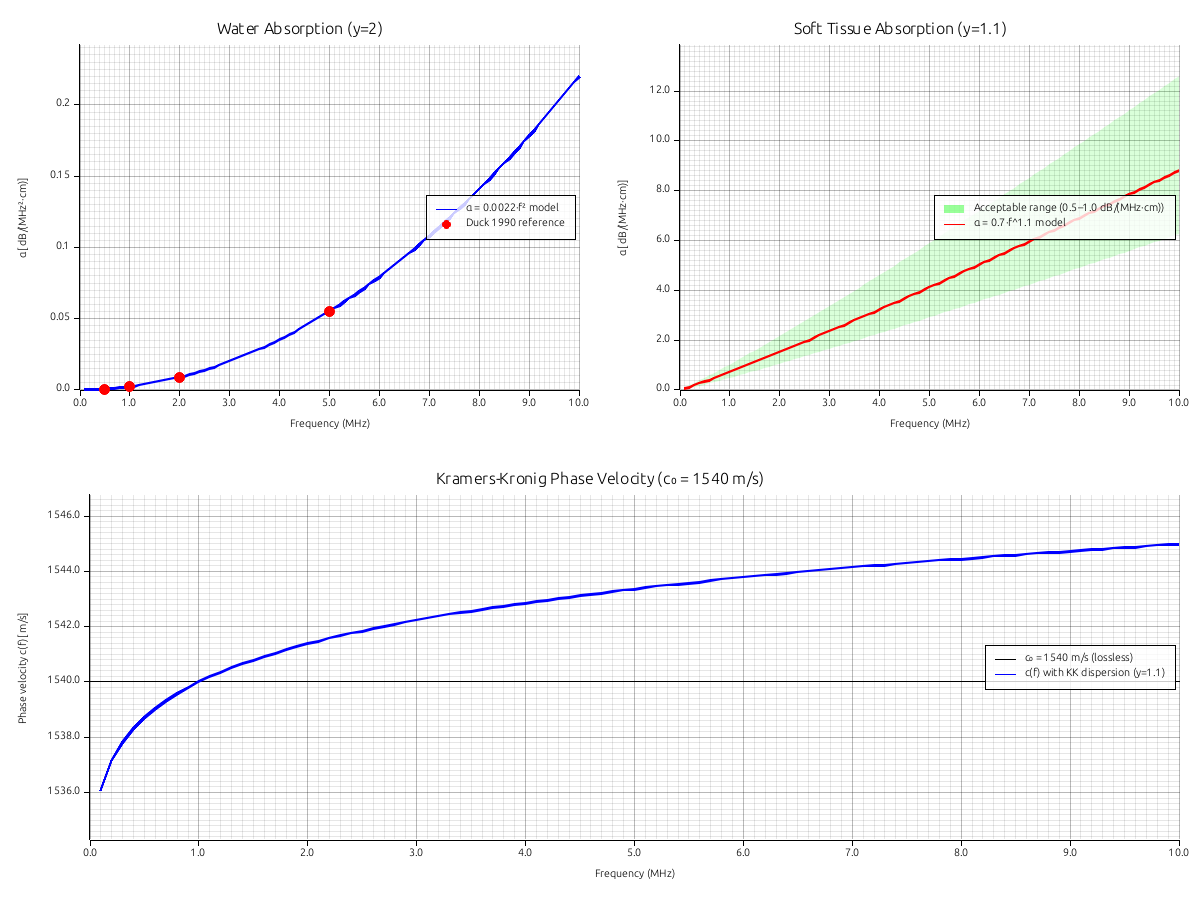
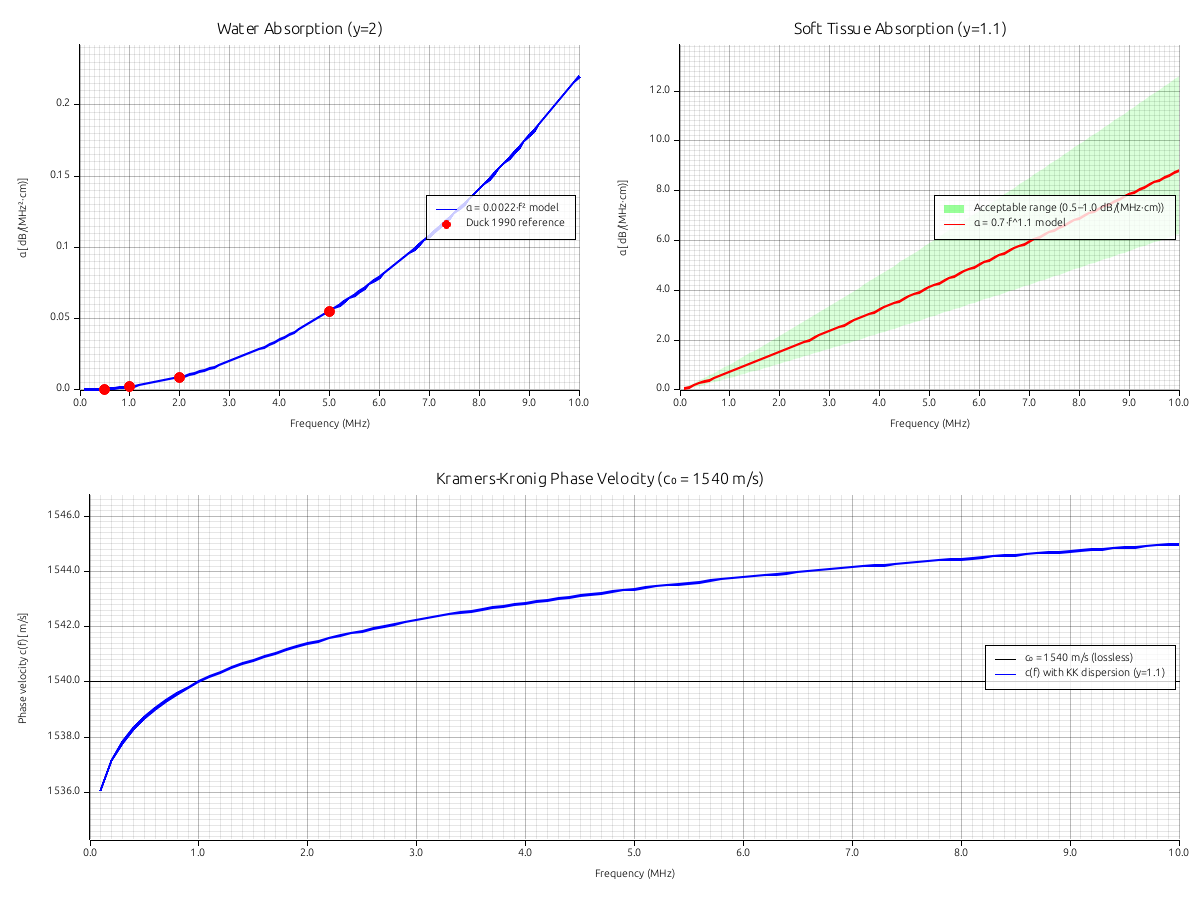
fix(kwavers): Route the leftover dB/Np literals
The skull-modulation example, the book's unit line, and two test
harnesses still spelled the factor as 11.516, 0.1151, or 0.115. They
now use kw.db2neper and DB_TO_NP/NP_TO_DB, so the Kramers-Kronig panel
and the classical-absorption check run on the exact conversion.

The Pinkerton parity test had widened rtol to 1.27e-5 to absorb the
gap between k-Wave's 8.686 literal and 20/ln(10). Dividing k-Wave's
dB/cm by its own literal recovers its Np value exactly, so the test
compares the two polynomials at the original rtol of 1e-6.

The exact factor moves the Kramers-Kronig curve of
absorption_power_law.png by under a pixel, so the golden is
regenerated through KWAVERS_REGENERATE_TEST_FIGURES; it is stored
recompressed at 67 KB, pixel-identical to the render.

Item: KW-DB-PER-NP-DUPLICATE
Agent: claude:21ed3a97-56c6-4380-94fd-c071d86e23eb

diff --git a/crates/kwavers/tests/absorption_validation_test.rs b/crates/kwavers/tests/absorption_validation_test.rs
@@ -6,7 +6,7 @@
 //! Reference: Treeby et al., "Modeling power law absorption and dispersion
 //! for acoustic propagation using the fractional Laplacian", JASA 2010
 
-use kwavers_core::constants::SOUND_SPEED_WATER;
+use kwavers_core::constants::{DB_TO_NP, NP_TO_DB, SOUND_SPEED_WATER};
 use plotters::prelude::*;
 
 #[path = "support/figures.rs"]
@@ -146,7 +146,7 @@ fn render_absorption_figure(path: &std::path::Path) -> Result<(), Box<dyn std::e
     // ── Panel 3: Kramers-Kronig phase velocity dispersion ────────────────────
     {
         let c0 = TISSUE_SOUND_SPEED;
-        let alpha_0_np_per_m = 0.7 * 0.115 / 0.01; // Np/m at 1 MHz
+        let alpha_0_np_per_m = 0.7 * DB_TO_NP * 100.0; // Np/m at 1 MHz
         let y = 1.1;
         let omega_ref = 2.0 * std::f64::consts::PI * 1e6; // reference ω₀ = 2π·1 MHz
         let tan_factor = (std::f64::consts::PI * y / 2.0).tan(); // negative for 1 < y < 2
@@ -218,7 +218,7 @@ fn render_absorption_figure(path: &std::path::Path) -> Result<(), Box<dyn std::e
 #[test]
 fn test_water_absorption() {
     // Water absorption: α = 0.0022 * f^2 [dB/(MHz^2·cm)]
-    // Convert to Np/m: 1 dB = 0.115 Np, 1 cm = 0.01 m
+    // Convert to Np/m: 1 dB = ln(10)/20 Np, 1 m = 100 cm
 
     let frequencies = [0.5e6, 1.0e6, 2.0e6, 5.0e6]; // Hz
     let expected_alpha_db_per_cm = [
@@ -231,7 +231,7 @@ fn test_water_absorption() {
     for (i, &f) in frequencies.iter().enumerate() {
         let f_mhz: f64 = f / 1e6;
         let alpha_db_per_cm = 0.0022 * f_mhz.powi(2);
-        let alpha_np_per_m = alpha_db_per_cm * 0.115 / 0.01;
+        let alpha_np_per_m = alpha_db_per_cm * DB_TO_NP * 100.0;
 
         // Verify against expected values
         let error = (alpha_db_per_cm - expected_alpha_db_per_cm[i]).abs();
@@ -245,7 +245,7 @@ fn test_water_absorption() {
 
         // Verify power law with y=2 for water
         let alpha_from_power_law = power_law_absorption(
-            0.0022 * 0.115 / 0.01, // α₀ at 1 MHz in Np/m
+            0.0022 * DB_TO_NP * 100.0, // α₀ at 1 MHz in Np/m
             f,
             1e6, // Reference frequency 1 MHz
             2.0, // Power law exponent for water
@@ -276,7 +276,7 @@ fn test_tissue_absorption() {
 
         // Calculate using power law
         let alpha_db = alpha_0_db * f_mhz.powf(power);
-        let alpha_np_per_m = alpha_db * 0.115 / 0.01;
+        let alpha_np_per_m = alpha_db * DB_TO_NP * 100.0;
 
         // Verify reasonable range for soft tissue
         assert!(
@@ -288,7 +288,7 @@ fn test_tissue_absorption() {
 
         // Verify power law behavior
         if f > 1e6 {
-            let alpha_1mhz = power_law_absorption(alpha_0_db * 0.115 / 0.01, 1e6, 1e6, power);
+            let alpha_1mhz = power_law_absorption(alpha_0_db * DB_TO_NP * 100.0, 1e6, 1e6, power);
             let ratio = alpha_np_per_m / alpha_1mhz;
             let expected_ratio = f_mhz.powf(power);
 
@@ -317,7 +317,7 @@ fn test_absorption_dispersion_relation() {
     // consistent with measured tissue behavior).
 
     let c0 = TISSUE_SOUND_SPEED;
-    let alpha_0_np_per_m = 0.7 * 0.115 / 0.01; // Np/m at 1 MHz reference
+    let alpha_0_np_per_m = 0.7 * DB_TO_NP * 100.0; // Np/m at 1 MHz reference
     let y = 1.1;
     let omega_ref = 2.0 * std::f64::consts::PI * 1e6; // ω₀ = 2π·1 MHz
     let tan_factor = (std::f64::consts::PI * y / 2.0).tan(); // negative for 1 < y < 2
@@ -385,10 +385,10 @@ fn test_thermoviscous_absorption() {
 
     // Convert to dB/(MHz²·cm) for comparison.
     // alpha_classical is in Np/m at f=1 MHz.
-    // 1 Np/m = (1/11.5) dB/cm  (since 1 dB = 0.115 Np, 1 cm = 0.01 m)
+    // 1 Np/m = NP_TO_DB / 100 dB/cm  (1 Np = 20/ln(10) dB, 1 m = 100 cm)
     // At 1 MHz the quadratic law α = α₀·f² gives α₀ = α/f² = α (per MHz² with f=1).
-    // So: α₀ [dB/(MHz²·cm)] = alpha_classical [Np/m] × 0.01/0.115
-    let alpha_db_per_mhz2_cm = alpha_classical * 0.01 / 0.115;
+    // So: α₀ [dB/(MHz²·cm)] = alpha_classical [Np/m] × NP_TO_DB / 100
+    let alpha_db_per_mhz2_cm = alpha_classical * NP_TO_DB / 100.0;
 
     // Should be on the order of 0.002 for water (Duck 1990: 0.0022 dB/(MHz²·cm))
     assert!(

diff --git a/crates/kwavers-python/tests/test_new_utils_parity.py b/crates/kwavers-python/tests/test_new_utils_parity.py
@@ -471,25 +471,22 @@ class TestKWavePythonParity:
         """
         from kwave.utils.mapgen import water_absorption as kw_wa
 
-        import math
-
-        NEPER2DB = 20.0 / math.log(10.0)  # exact Np → dB factor
-        # k-Wave scales Pinkerton by its own NEPER2DB literal; a 4-decimal
-        # literal (8.686) deviates from the exact factor by 1.27e-5 relative,
-        # so the comparison bound is that deviation plus the rounding of the
-        # eight-term polynomial and the two conversions (< 1e-9).
-        rtol = abs(8.686 - NEPER2DB) / NEPER2DB + 1.0e-9
+        # k-Wave converts its Np polynomial to dB with the literal
+        # NEPER2DB = 8.686 (kwave/utils/mapgen.py), not 20/ln(10). Dividing by
+        # the same literal recovers k-Wave's Np value, so the two
+        # implementations of the Pinkerton polynomial compare directly.
+        KWAVE_NEPER2DB = 8.686
         for freq_mhz in [0.5, 1.0, 2.0, 5.0]:
             for temp in [10.0, 20.0, 25.0, 37.0, 50.0]:
                 freq_hz = freq_mhz * 1e6
                 pk_npm = kw.water_absorption(freq_hz, temp)  # Np/m
                 kw_dbcm = float(kw_wa(freq_mhz, temp))       # dB/cm
 
-                # Convert k-wave dB/cm → Np/m: Np/m = (dB/cm) / NEPER2DB * 100
-                kw_npm = kw_dbcm / NEPER2DB * 100.0
+                # Convert k-wave dB/cm → Np/m: Np/m = (dB/cm) / KWAVE_NEPER2DB * 100
+                kw_npm = kw_dbcm / KWAVE_NEPER2DB * 100.0
 
                 if kw_npm > 1e-10:
-                    np.testing.assert_allclose(pk_npm, kw_npm, rtol=rtol,
+                    np.testing.assert_allclose(pk_npm, kw_npm, rtol=1e-6,
                         err_msg=f"water_absorption mismatch at {freq_mhz} MHz, {temp}°C")
 
     def test_hounsfield2density_matches_kwave(self):

diff --git a/crates/kwavers-python/examples/diff_focused_hifu_skull_modulation.py b/crates/kwavers-python/examples/diff_focused_hifu_skull_modulation.py
@@ -53,6 +53,7 @@ import matplotlib.pyplot as plt
 import matplotlib.gridspec as gridspec
 from matplotlib.patches import Rectangle, FancyArrowPatch
 from matplotlib.colors import ListedColormap
+import pykwavers as kw
 import warnings
 warnings.filterwarnings("ignore")
 
@@ -99,14 +100,14 @@ alpha_th = k_th / (rho * cp)
 
 # ── 2.  Acoustic absorption coefficients  [Np/m] ─────────────────────────────
 #
-# alpha_np [Np/m] = alpha_dB_cm_MHz * f_MHz * 100 / (20/ln(10))
-#             = alpha_dB_cm_MHz * f_MHz * 11.516
+# alpha_np [Np/m] = alpha_dB_cm_MHz * f_MHz * (dB/cm -> Np/m), the factor
+# kw.db2neper returns for exponent 0: 100 * ln(10)/20.
 
 F_MHZ    = 0.650          # transducer frequency  [MHz]
 ALPHA_DB = np.where(Z < Z_WATER_END, 2.2e-3,   # water  [dB/cm/MHz]
            np.where(Z < Z_SKULL_END, 15.0,      # skull (cortical bone)
                                       0.60))    # brain (ICRU Report 61)
-ALPHA_NP = ALPHA_DB * F_MHZ * 11.516            # [Np/m]
+ALPHA_NP = ALPHA_DB * F_MHZ * kw.db2neper(1.0, 0.0)  # [Np/m]
 
 # ── 3.  Blood and body constants ──────────────────────────────────────────────
 

diff --git a/crates/kwavers/tests/literature_validation.rs b/crates/kwavers/tests/literature_validation.rs
@@ -3,6 +3,7 @@
 //! These tests validate our implementations against known analytical solutions
 //! and published results from peer-reviewed literature.
 
+use kwavers_core::constants::DB_TO_NP;
 use kwavers_grid::Grid;
 use kwavers_medium::HomogeneousMedium;
 use kwavers_physics::bubble_dynamics::{BubbleParameters, BubbleState, KellerMiksisModel};
@@ -252,8 +253,8 @@ fn test_acoustic_attenuation() {
         let freq_mhz = freq / 1e6;
         let alpha = alpha_0 * f64::powf(freq_mhz, y); // dB/cm
 
-        // Convert to Np/m (1 dB = 0.115 Np, 1 cm = 0.01 m)
-        let alpha_np_m = alpha * 0.115 / 0.01;
+        // Convert to Np/m (1 dB = ln(10)/20 Np, 1 m = 100 cm)
+        let alpha_np_m = alpha * DB_TO_NP * 100.0;
 
         // Penetration depth (where amplitude drops to 1/e)
         let penetration_depth = 1.0 / alpha_np_m;

diff --git a/docs/book/foundations.md b/docs/book/foundations.md
@@ -528,8 +528,8 @@ where $f$ is frequency in MHz, $\alpha_0$ is the absorption coefficient at
 | Kidney | 1.0 | 1.0 |
 | Bone (cancellous) | 9.94 | 1.0 |
 
-Unit conversion: $1\,\text{dB cm}^{-1} = 0.1151\,\text{Np cm}^{-1}
-= 11.51\,\text{Np m}^{-1}$.
+Unit conversion: $1\,\text{dB cm}^{-1} = \ln(10)/20\,\text{Np cm}^{-1}
+\approx 0.1151\,\text{Np cm}^{-1} \approx 11.51\,\text{Np m}^{-1}$.
 
 ![Figure 1.3 — power-law attenuation vs frequency](figures/ch01/fig03_power_law_attenuation.png)
 
